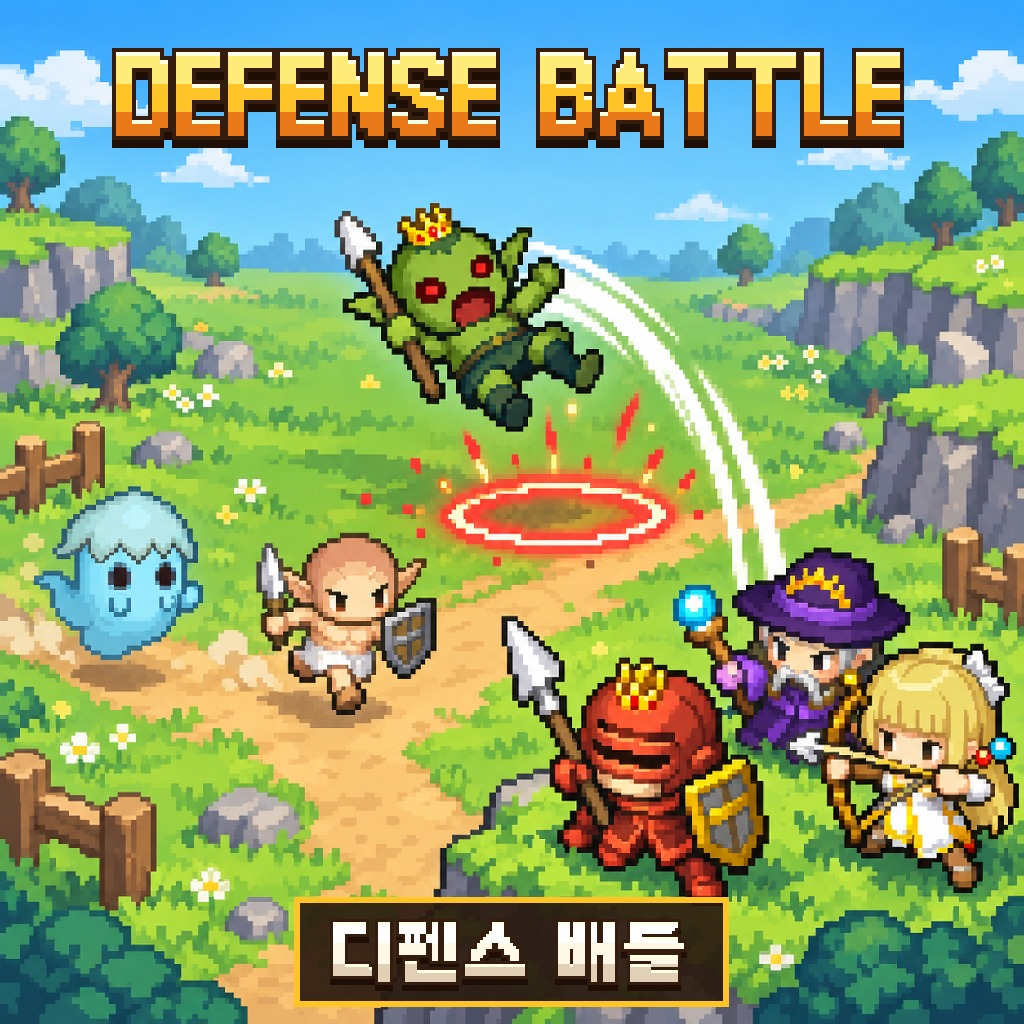
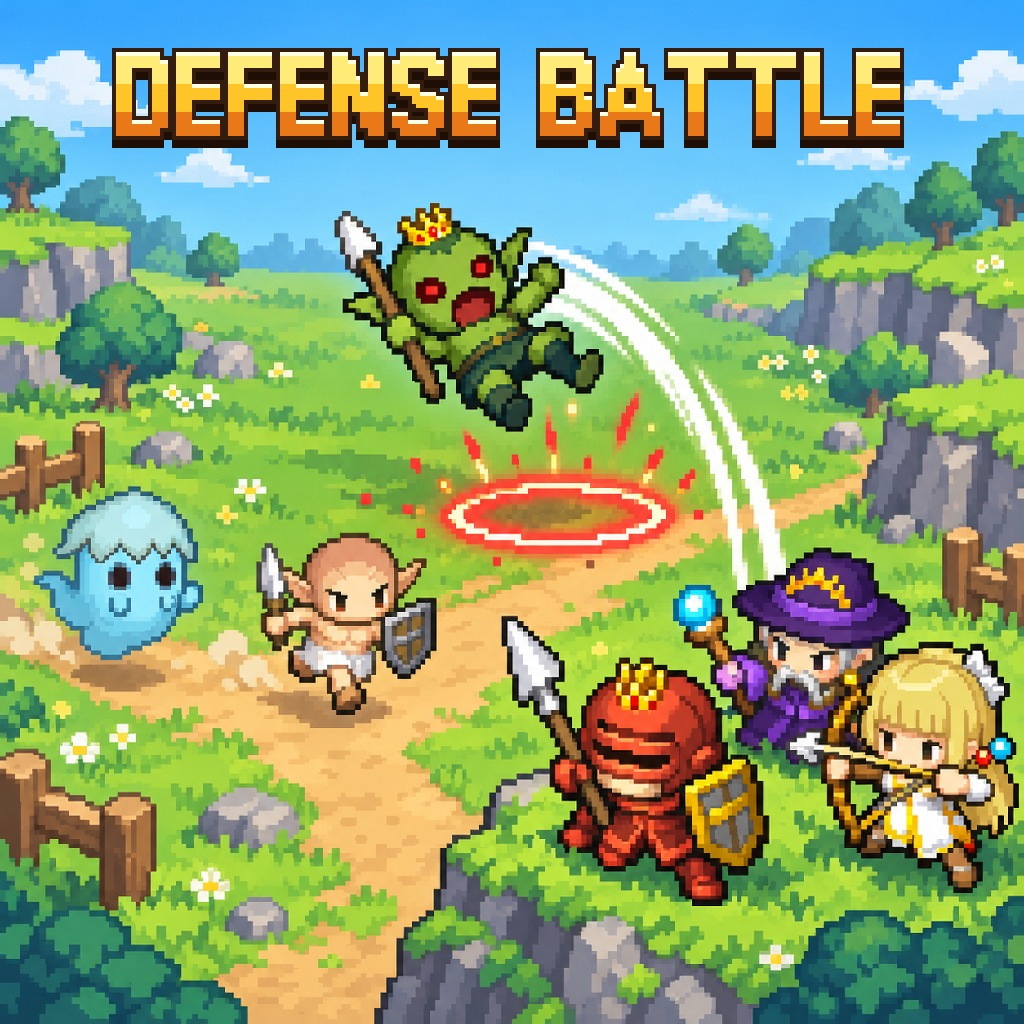
Store thumbnail: drop the Korean name plate at the bottom

Changed region(s): [[0.2812, 0.875, 0.7188, 1.0]]

diff --git a/tools/store_logo.py b/tools/store_logo.py
@@ -78,7 +78,9 @@ def variant(base: Image.Image, kind: str) -> Image.Image:
     word = fit_word(NAME_EN, W - 90, 6)
     kr = pixel_word(NAME_KR, 22, 3, top=(255, 255, 255), mid=(255, 248, 230), low=(225, 208, 182))
     bottom = H - kr.height - 30  # 한글 이름은 아래 (위쪽은 날아가는 고블린 자리)
-    if kind == 'A':
+    if kind == 'A':  # 썸네일: 위 영문 픽셀 글자만 (아래 한글 판은 그래픽 이미지에만)
+        img.alpha_composite(word, ((W - word.width) // 2, 40))
+    elif kind == 'A2':  # 예전 A: 아래 한글 판까지
         img.alpha_composite(word, ((W - word.width) // 2, 40))
         plate = Image.new('RGBA', (kr.width + 60, kr.height + 26), (0, 0, 0, 0))
         ImageDraw.Draw(plate).rectangle((0, 0, plate.width - 1, plate.height - 1), fill=(42, 26, 16, 235), outline=(255, 196, 40, 255), width=6)
